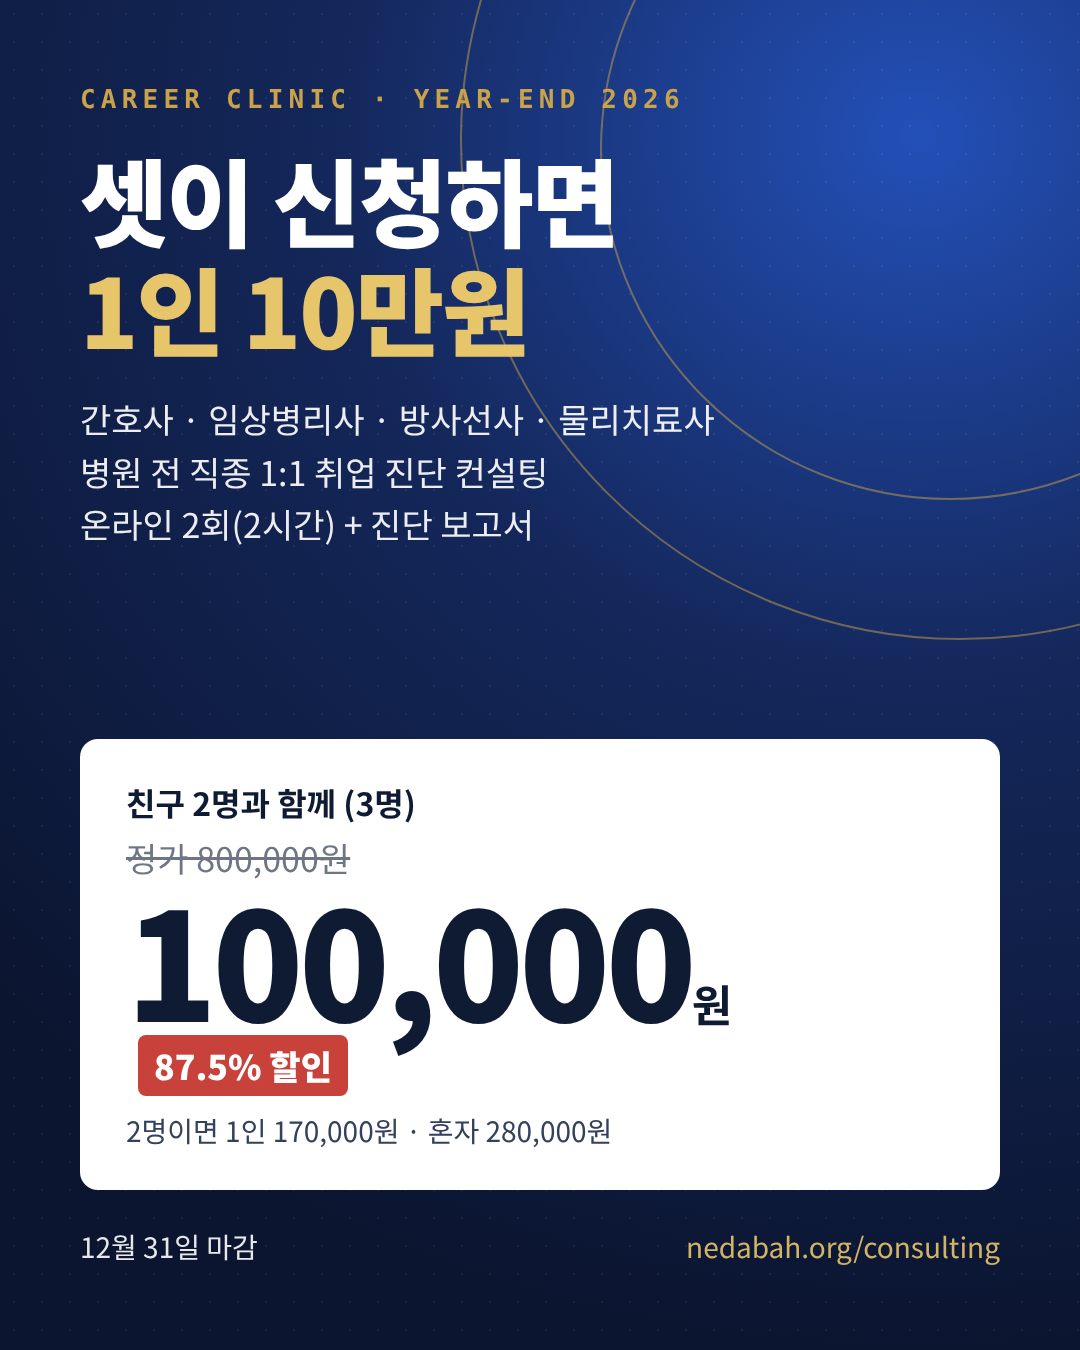
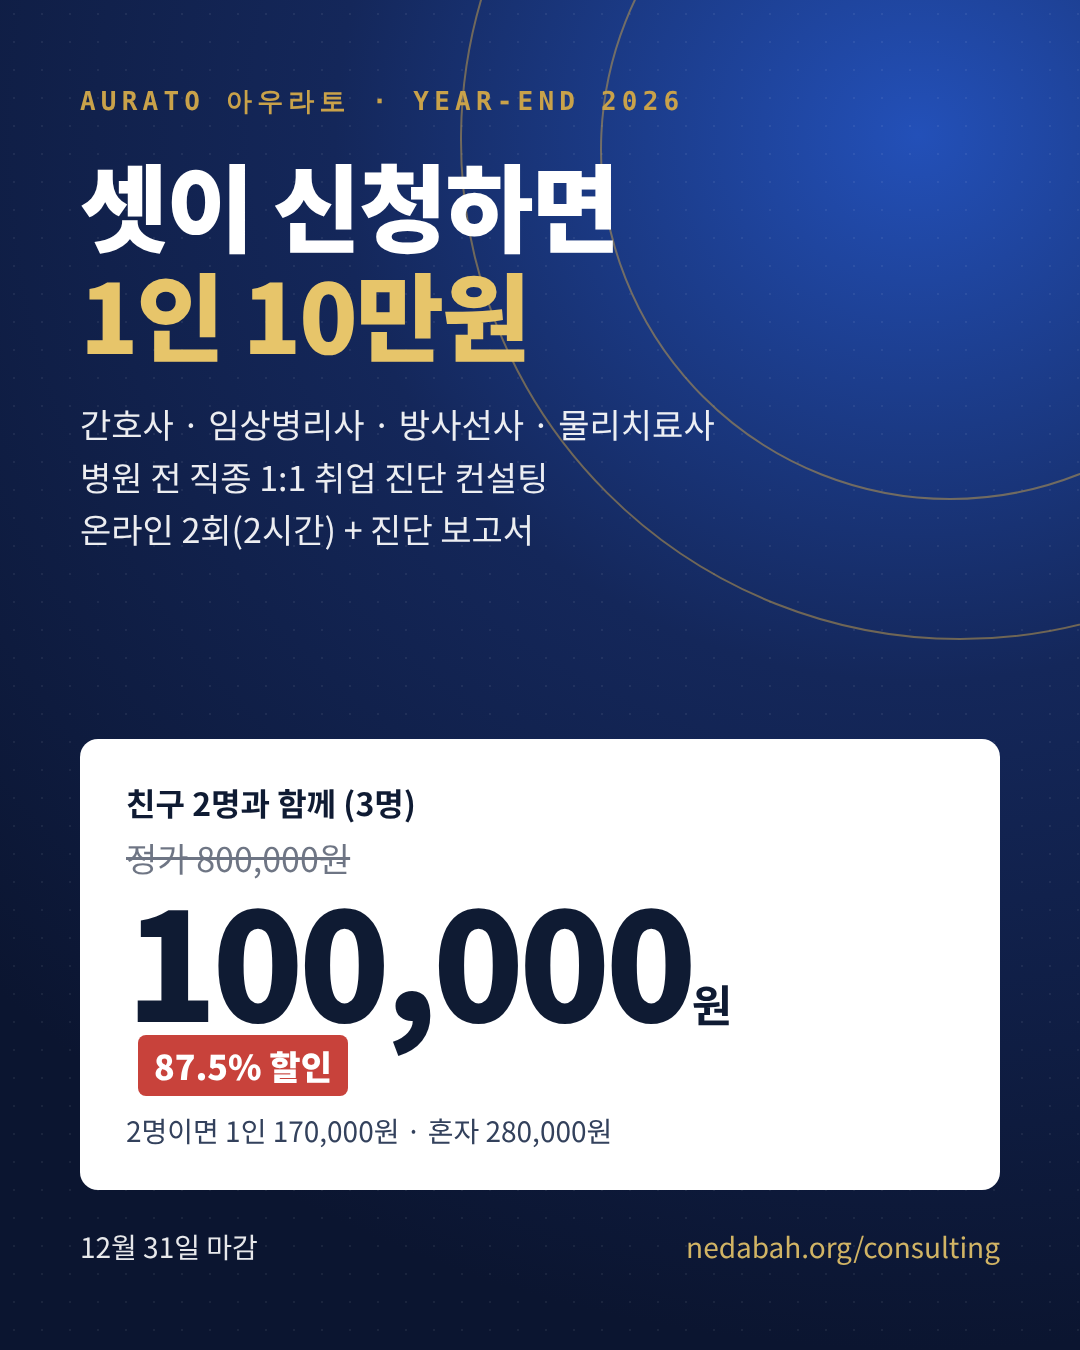
아우라토(AURATO) 브랜드 적용: 서비스명 아우라토, 운영 네다바웨이 (#33)
- /consulting/, /consulting/after-exam/ 브랜드 표기·타이틀·푸터를 아우라토로 전환
- Service 스키마에 brand(아우라토/AURATO) 추가, provider는 네다바웨이 유지
- 홈 메뉴·히어로·카드·팝업 문구, 프로모션 이미지 4종 재생성, llms.txt 갱신
- docs/아우라토-브랜드-구조.md: 토스 방식 결정 근거, 상표 출원 명의, 분리 시점

Claude-Session: https://claude.ai/code/session_01SrQpoat8LbiUAsr2rLYRo8

diff --git a/consulting/index.html b/consulting/index.html
@@ -3,14 +3,14 @@
 <head>
 <meta charset="UTF-8">
 <meta name="viewport" content="width=device-width, initial-scale=1.0">
-<title>커리어 클리닉 | 병원·보건의료 취업 1:1 진단 컨설팅 — 네다바웨이</title>
+<title>아우라토 AURATO | 병원·보건의료 취업 1:1 진단 컨설팅 커리어 클리닉</title>
 <meta name="description" content="간호사·임상병리사·방사선사·물리치료사 등 병원 전 직종 취업을 위한 1:1 진단 컨설팅. 전문 컨설턴트의 합격 전략, AI 데이터 분석, 온라인 2회(2시간), 마지막 진단 보고서. 연말 프로모션: 친구 2명과 함께 1인 10만원(정가 80만원).">
-<meta name="keywords" content="병원 취업 컨설팅, 간호사 자소서, 임상병리사 취업, 방사선사 취업, 물리치료사 취업, 상급종합병원 자기소개서, 대학병원 면접, 공공기관 보건직 면접, 전문대 보건계열 취업">
+<meta name="keywords" content="아우라토, AURATO, 병원 취업 컨설팅, 간호사 자소서, 임상병리사 취업, 방사선사 취업, 물리치료사 취업, 상급종합병원 자기소개서, 대학병원 면접, 공공기관 보건직 면접, 전문대 보건계열 취업">
 <link rel="canonical" href="https://nedabah.org/consulting/">
 <meta property="og:type" content="website">
-<meta property="og:site_name" content="Nedabah Way">
+<meta property="og:site_name" content="아우라토 AURATO">
 <meta property="og:url" content="https://nedabah.org/consulting/">
-<meta property="og:title" content="커리어 클리닉 — 병원 취업, 문장이 아니라 근거에서 갈립니다">
+<meta property="og:title" content="아우라토 커리어 클리닉 — 병원 취업, 문장이 아니라 근거에서 갈립니다">
 <meta property="og:description" content="연말 프로모션: 2회·2시간 정가 80만원 → 친구 2명과 함께 1인 10만원. 12월 31일까지.">
 <meta property="og:image" content="https://nedabah.org/og/consulting.png">
 <meta property="og:image:width" content="1200">
@@ -28,10 +28,10 @@
 <script type="application/ld+json">
 {"@context":"https://schema.org","@type":"BreadcrumbList","itemListElement":[
  {"@type":"ListItem","position":1,"name":"홈","item":"https://nedabah.org/"},
- {"@type":"ListItem","position":2,"name":"커리어 클리닉","item":"https://nedabah.org/consulting/"}]}
+ {"@type":"ListItem","position":2,"name":"아우라토 커리어 클리닉","item":"https://nedabah.org/consulting/"}]}
 </script>
 <script type="application/ld+json">
-{"@context":"https://schema.org","@type":"Service","name":"커리어 클리닉 — 병원·보건의료 취업 1:1 진단 컨설팅","serviceType":"취업 컨설팅(자기소개서·면접)","provider":{"@type":"Organization","name":"Nedabah Way","alternateName":"네다바웨이","url":"https://nedabah.org"},"areaServed":"KR",
+{"@context":"https://schema.org","@type":"Service","name":"아우라토 커리어 클리닉 — 병원·보건의료 취업 1:1 진단 컨설팅","brand":{"@type":"Brand","name":"아우라토","alternateName":"AURATO"},"serviceType":"취업 컨설팅(자기소개서·면접)","provider":{"@type":"Organization","name":"Nedabah Way","alternateName":"네다바웨이","url":"https://nedabah.org"},"areaServed":"KR",
  "audience":{"@type":"Audience","audienceType":"간호사·임상병리사·방사선사·물리치료사·작업치료사·치과위생사·응급구조사·보건행정 등 병원 직종 취업 준비생"},
  "availableChannel":{"@type":"ServiceChannel","serviceUrl":"https://nedabah.org/consulting/","name":"온라인 화상 1:1"},
  "description":"전문 컨설턴트의 합격 전략과 AI 데이터 분석으로 자기소개서와 면접을 2회(2시간) 진단·처방하고, 마지막에 진단 보고서를 제공합니다.",
@@ -55,7 +55,7 @@
 <div class="ribbon">🎁 <b>연말 프로모션</b> · 2회·2시간 정가 80만원 → 친구 2명과 함께 <b>1인 10만원</b> · <span id="promoLeft">12월 31일 마감</span></div>
 <header class="cbar">
   <div class="w">
-    <a class="brand" href="/consulting/">CAREER CLINIC<small>NEDABAH WAY · 보건의료 취업 진단</small></a>
+    <a class="brand" href="/consulting/">AURATO 아우라토<small>커리어 클리닉 · 운영 네다바웨이</small></a>
     <nav>
       <a href="/consulting/after-exam/">국시 직후</a><a href="#jobs">직종</a><a href="#target">목표 기관</a><a href="#report">진단 보고서</a><a href="#price">가격</a><a href="/colleges/">학교 단체</a>
       <a class="go" href="#apply">신청하기</a>
@@ -152,7 +152,7 @@
     <div class="lab">Not a Cram School</div>
     <h2>첨삭이 아니라 진단입니다</h2>
     <table class="cmp">
-      <thead><tr><th>항목</th><th>일반 첨삭</th><th>커리어 클리닉</th></tr></thead>
+      <thead><tr><th>항목</th><th>일반 첨삭</th><th>아우라토</th></tr></thead>
       <tbody>
         <tr><td>시작점</td><td>문장 다듬기</td><td class="us">지원서 전체 진단: 반복 문단, 장면 수, 숫자, 미확인 정보</td></tr>
         <tr><td>근거</td><td>첨삭자의 경험</td><td class="us">지원 기관 공식 발표·채용 공고·공개 합격 자소서 비교(AI 데이터 분석)</td></tr>
@@ -251,7 +251,7 @@
     <div class="lab">Apply · 3분</div>
     <h2>신청 + 사전 진단 설문</h2>
     <p class="sub">설문은 1회차 전 진단에 씁니다. 24시간 안에 문자로 일정과 계좌를 안내합니다.</p>
-    <form class="cform" data-consult="커리어 클리닉 1:1(개인)">
+    <form class="cform" data-consult="아우라토 커리어 클리닉 1:1(개인)">
       <div class="row">
         <div><label for="c-name">이름</label><input id="c-name" name="name" required autocomplete="name"></div>
         <div><label for="c-contact">휴대폰</label><input id="c-contact" name="contact" required inputmode="tel" placeholder="010-0000-0000"></div>
@@ -289,7 +289,7 @@
 </main>
 
 <div class="mbar"><a href="#apply">신청하기</a><a href="#price">가격 보기</a></div>
-<footer class="cf"><div class="w">CAREER CLINIC by Nedabah Way(네다바웨이) · 제주특별자치도 서귀포시 일주동로 9141, 2층 · <a href="mailto:nedabah.way@gmail.com">nedabah.way@gmail.com</a> · <a href="/">네다바웨이 홈</a> · <a href="/colleges/">학교·기관 단체 운영</a></div></footer>
+<footer class="cf"><div class="w">아우라토(AURATO) 커리어 클리닉은 네다바웨이(Nedabah Way)가 운영하는 취업 컨설팅 서비스입니다 · 제주특별자치도 서귀포시 일주동로 9141, 2층 · <a href="mailto:nedabah.way@gmail.com">nedabah.way@gmail.com</a> · <a href="/">네다바웨이 홈</a> · <a href="/colleges/">학교·기관 단체 운영</a></div></footer>
 <script src="/consult-form.js"></script>
 <script>
 document.querySelectorAll('[data-plan]').forEach(function(a){a.addEventListener('click',function(){var s=document.getElementById('c-plan');for(var i=0;i<s.options.length;i++){if(s.options[i].text===a.getAttribute('data-plan'))s.selectedIndex=i;}});});

diff --git a/consulting/after-exam/index.html b/consulting/after-exam/index.html
@@ -3,12 +3,12 @@
 <head>
 <meta charset="UTF-8">
 <meta name="viewport" content="width=device-width, initial-scale=1.0">
-<title>국가시험 끝난 다음 날, 바로 취업 준비 | 국시 직후 온라인 컨설팅 — 커리어 클리닉</title>
+<title>국가시험 끝난 다음 날, 바로 취업 준비 | 국시 직후 온라인 컨설팅 — 아우라토 AURATO</title>
 <meta name="description" content="간호사·방사선사·임상병리사·물리치료사·작업치료사·치과위생사 국가시험이 끝난 다음 날부터 온라인 1:1 취업 컨설팅. 시험 종료~합격 발표 사이 3주를 자기소개서·면접 준비로 씁니다. 12월 31일까지 사전예약하면 연말 프로모션 가격 적용.">
 <meta name="keywords" content="국가시험 끝나고 취업 준비, 간호사 국시 후 자소서, 방사선사 국시 후 취업, 임상병리사 취업 준비, 물리치료사 취업 컨설팅, 신규간호사 면접 준비, 국시 합격 발표 전 준비">
 <link rel="canonical" href="https://nedabah.org/consulting/after-exam/">
 <meta property="og:type" content="website">
-<meta property="og:site_name" content="Nedabah Way">
+<meta property="og:site_name" content="아우라토 AURATO">
 <meta property="og:url" content="https://nedabah.org/consulting/after-exam/">
 <meta property="og:title" content="국가시험 끝난 다음 날, 바로 취업 준비">
 <meta property="og:description" content="시험 종료~합격 발표 3주를 자소서·면접 준비로. 온라인 1:1 2회 + 진단 보고서. 12월 31일까지 사전예약 시 1인 10만원(3명).">
@@ -28,7 +28,7 @@
 <script type="application/ld+json">
 {"@context":"https://schema.org","@type":"BreadcrumbList","itemListElement":[
  {"@type":"ListItem","position":1,"name":"홈","item":"https://nedabah.org/"},
- {"@type":"ListItem","position":2,"name":"커리어 클리닉","item":"https://nedabah.org/consulting/"},
+ {"@type":"ListItem","position":2,"name":"아우라토 커리어 클리닉","item":"https://nedabah.org/consulting/"},
  {"@type":"ListItem","position":3,"name":"국시 직후 컨설팅","item":"https://nedabah.org/consulting/after-exam/"}]}
 </script>
 <script type="application/ld+json">
@@ -43,7 +43,7 @@
 <div class="ribbon">📝 <b>국시 응시자 사전예약</b> · 12월 31일까지 예약하면 시험이 1월에 끝나도 <b>연말 프로모션 가격</b> 적용 · <span id="promoLeft">12월 31일 마감</span></div>
 <header class="cbar">
   <div class="w">
-    <a class="brand" href="/consulting/">CAREER CLINIC<small>NEDABAH WAY · 보건의료 취업 진단</small></a>
+    <a class="brand" href="/consulting/">AURATO 아우라토<small>커리어 클리닉 · 운영 네다바웨이</small></a>
     <nav><a href="#why">왜 지금</a><a href="#schedule">직종별 일정</a><a href="#plan">3주 계획</a><a href="/consulting/#report">진단 보고서</a><a class="go" href="#reserve">사전예약</a></nav>
   </div>
 </header>
@@ -148,7 +148,7 @@
     <div class="lab">Reserve · 2분</div>
     <h2>시험 끝나고 바로 시작 예약</h2>
     <p class="sub">시험 전에는 연락하지 않습니다. 시험 종료일 저녁에 1회차 일정을 문자로 안내합니다.</p>
-    <form class="cform" data-consult="국시 직후 컨설팅 사전예약">
+    <form class="cform" data-consult="아우라토 국시 직후 컨설팅 사전예약">
       <div class="row">
         <div><label for="r-name">이름</label><input id="r-name" name="name" required autocomplete="name"></div>
         <div><label for="r-contact">휴대폰</label><input id="r-contact" name="contact" required inputmode="tel" placeholder="010-0000-0000"></div>
@@ -174,7 +174,7 @@
 </section>
 </main>
 <div class="mbar"><a href="#reserve">사전예약</a><a href="#schedule">직종 일정</a></div>
-<footer class="cf"><div class="w">CAREER CLINIC by Nedabah Way(네다바웨이) · 제주특별자치도 서귀포시 일주동로 9141, 2층 · <a href="mailto:nedabah.way@gmail.com">nedabah.way@gmail.com</a> · <a href="/consulting/">커리어 클리닉</a> · <a href="/colleges/">학교·기관 단체 운영</a></div></footer>
+<footer class="cf"><div class="w">아우라토(AURATO) 커리어 클리닉은 네다바웨이(Nedabah Way)가 운영하는 취업 컨설팅 서비스입니다 · 제주특별자치도 서귀포시 일주동로 9141, 2층 · <a href="mailto:nedabah.way@gmail.com">nedabah.way@gmail.com</a> · <a href="/consulting/">커리어 클리닉</a> · <a href="/colleges/">학교·기관 단체 운영</a></div></footer>
 <script src="/exams.js"></script>
 <script src="/consult-form.js"></script>
 <script>

diff --git a/index.html b/index.html
@@ -316,7 +316,7 @@
   <div class="wrap nav-in">
     <a href="/" class="logo">NEDABAH <b>WAY</b></a>
     <nav class="nav-links" aria-label="주요">
-      <a class="item" href="/consulting/">커리어 클리닉</a>
+      <a class="item" href="/consulting/">아우라토 취업 컨설팅</a>
       <a class="item" href="/colleges/">기관 의뢰</a>
       <a class="item" href="#offer">교육</a>
       <a class="item" href="/growth/">성장 기록</a>
@@ -330,7 +330,7 @@
   <section class="hero-sec">
     <div class="wrap hero2">
       <div class="hero2-copy reveal">
-        <div class="hero2-eyebrow">커리어 클리닉 · 병원 전 직종 1:1 취업 진단</div>
+        <div class="hero2-eyebrow">아우라토 AURATO · 병원 전 직종 1:1 취업 진단</div>
         <h1>자소서는 잘 썼는데<br><span class="hl">떨어지는 이유</span>를 찾습니다</h1>
         <p>전문 컨설턴트의 합격 전략과 AI 데이터 분석으로 자기소개서와 면접을 2회 만에 바꿉니다. 끝나면 컨설팅 보고서를 드립니다.</p>
         <p class="hero-promo" style="margin-top:.4rem;padding:.6rem .9rem;border-radius:10px;background:rgba(245,179,1,.15);font-size:.95rem">연말 프로모션 · 2회 정가 <s>80만원</s> → 친구 2명과 함께 신청 시 <b>1인 10만원</b> · 1명과 함께 <b>17만원</b> · 12월 31일까지</p>
@@ -394,7 +394,7 @@
           <div class="ph" data-label="사진 자리 · 1:1 취업 컨설팅(얼굴 가림)"></div>
           <div class="body">
             <div class="row1"><span class="pill">NEW</span><span class="meta">간호·임상병리·방사선·물리치료 등 병원 전 직종 · 온라인 1:1 · 2회</span></div>
-            <h3 class="serif">커리어 클리닉 · 1:1 취업 진단</h3>
+            <h3 class="serif">아우라토 · 1:1 취업 진단 컨설팅</h3>
             <p>합격 전략 + AI 데이터 분석으로 자소서·면접을 2회 만에. 마지막에 컨설팅 보고서. 학교 단위 운영은 <u>기관 의뢰</u>로.</p>
             <span class="go">자세히 보기 →</span>
           </div>
@@ -613,7 +613,7 @@
 <div id="promoPop" role="dialog" aria-modal="true" aria-labelledby="promoPopTitle" hidden style="position:fixed;inset:0;z-index:9999;background:rgba(8,14,30,.62);display:grid;place-items:center;padding:16px">
   <div style="position:relative;width:min(420px,100%);max-height:92vh;overflow:auto;background:#fff;border-radius:18px;box-shadow:0 30px 70px rgba(0,0,0,.35)">
     <button type="button" data-pop-close aria-label="닫기" style="position:absolute;top:10px;right:10px;width:36px;height:36px;border:0;border-radius:50%;background:rgba(255,255,255,.9);font-size:20px;cursor:pointer;z-index:2">×</button>
-    <a href="/consulting/?utm_source=home&amp;utm_medium=popup&amp;utm_campaign=yearend2026#price"><img src="/og/promo-1080x1350.png" width="1080" height="1350" alt="커리어 클리닉 연말 프로모션: 친구 2명과 함께 신청하면 1인 10만원(정가 80만원), 12월 31일 마감" style="display:block;width:100%;height:auto"></a>
+    <a href="/consulting/?utm_source=home&amp;utm_medium=popup&amp;utm_campaign=yearend2026#price"><img src="/og/promo-1080x1350.png" width="1080" height="1350" alt="아우라토 커리어 클리닉 연말 프로모션: 친구 2명과 함께 신청하면 1인 10만원(정가 80만원), 12월 31일 마감" style="display:block;width:100%;height:auto"></a>
     <div style="padding:14px 16px 16px">
       <p id="promoPopTitle" style="margin:0 0 10px;font-weight:800;font-size:1.02rem;color:#0f1b33">2026 연말 프로모션 · <span id="popLeft">12월 31일 마감</span></p>
       <div style="display:flex;gap:8px">

diff --git a/colleges/index.html b/colleges/index.html
@@ -78,7 +78,7 @@
                 <div class="k-card"><b class="n">12년</b><h3>교육 현장 경력</h3><p>학교·기관·청년 대상 진로교육, 퍼실리테이션, 코칭. 국제코칭연맹 인증 코치(ACC) 출신.</p></div>
                 <div class="k-card"><b class="n">학생 1인당</b><h3>보고서 1부 + 완성본</h3><p>진단, 기관별 분석, 문항별 수정 전·후, 면접 예상 질문, 지원 일정표.</p></div>
             </div>
-            <p style="font-size:.9rem;opacity:.85">기관명은 해당 기관이 동의한 경우에만 공개합니다. 학생 이름·얼굴·자소서 문장은 공개하지 않습니다.</p>
+            <p style="font-size:.9rem;opacity:.85">개인 대상 컨설팅은 <a href="/consulting/">아우라토(AURATO)</a> 브랜드로 운영하며, 기관 계약 주체는 네다바웨이입니다. 기관명은 해당 기관이 동의한 경우에만 공개합니다. 학생 이름·얼굴·자소서 문장은 공개하지 않습니다.</p>
         </section>
 
         <section class="cat-section cat-prose">

diff --git a/docs/아우라토-브랜드-구조.md b/docs/아우라토-브랜드-구조.md
@@ -1,0 +1,36 @@
+# 아우라토(AURATO) 브랜드 구조 결정 (2026-11-13)
+
+## 결정: 토스 방식
+- **서비스명**: 아우라토(AURATO). 개인 대상 취업 컨설팅 "커리어 클리닉"의 브랜드
+- **운영 주체**: 네다바웨이. 비영리 임의단체이며 수익사업용 사업자등록이 있음
+- 새 사업자등록은 지금 하지 않습니다. 사이트에는 "아우라토 · 운영 네다바웨이"로 표기합니다.
+
+## 근거
+1. **속도**: 연말 프로모션(12/31 마감)과 국시 시즌(12월~1월)이 눈앞입니다. 새 사업자를 만들면 통장, 결제 안내, 서류를 모두 다시 준비해야 합니다.
+2. **기관 영업**: 대학은 계약 상대의 거래 이력과 서류를 봅니다. 한라대 운영 실적이 네다바웨이 명의에 쌓여 있습니다.
+3. **관리 비용**: 사업자가 둘이면 장부, 부가세 신고, 통장도 둘이 됩니다. 매출이 검증되기 전에는 부담만 늘어납니다.
+4. **브랜드 분리 효과는 그대로**: 소비자는 서비스명을 기억합니다. 사업자명은 푸터와 영수증에만 나옵니다.
+
+## 반드시 함께 할 것
+- **상표는 대표 개인 명의로 출원**합니다(제41류 교육·코칭·취업 컨설팅).
+  - 법인격 없는 임의단체는 단체 이름으로 상표를 갖기 어렵습니다.
+  - 개인 명의로 두면 나중에 별도 사업자나 법인으로 분리할 때 브랜드를 그대로 가져갑니다.
+  - 출원 전에 키프리스에서 "아우라토 / AURATO" 선행 상표를 확인합니다.
+- **현금영수증 가맹점 가입**: 기존 네다바웨이 사업자로 홈택스에서 가입합니다(무료).
+- **강사료 지급 기록**: 네다바웨이가 대표에게 강사료를 지급할 때 원천징수 신고를 하고 내역을 보관합니다.
+
+## 분리(별도 사업자·법인) 시점
+아래 중 하나에 해당하면 아우라토를 대표 개인사업자나 법인으로 분리합니다.
+1. **비영리민간단체 등록을 신청하기 전**
+   - 등록 요건에 '구성원 간 이익 분배 금지'가 있습니다.
+   - 컨설팅 매출 전액을 대표 강사료로 지급하는 구조는 심사에서 설명 부담이 됩니다.
+2. 컨설팅 매출이 네다바웨이 전체 수입의 대부분이 될 때
+3. 대표 외 컨설턴트를 고용하거나 투자·대출이 필요할 때
+
+분리할 때는 상표(대표 개인 소유)를 새 사업자가 사용하고, 네다바웨이는 교육·공익 활동에 집중합니다.
+
+## 사이트 반영(이번 변경)
+- /consulting/, /consulting/after-exam/: 브랜드 표기를 "AURATO 아우라토 · 커리어 클리닉 · 운영 네다바웨이"로 바꿈
+- Service 스키마에 brand(아우라토/AURATO)를 추가함. provider는 네다바웨이로 유지
+- 홈 메뉴·히어로·카드, 프로모션 이미지 4종, llms.txt를 갱신함
+- URL(nedabah.org/consulting/)은 유지함. 도메인(aurato.kr 등)은 상표 확인 후 결정
